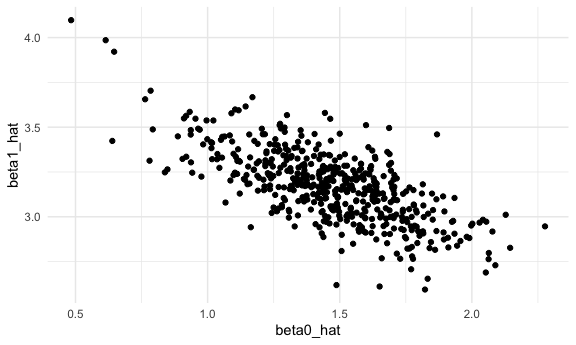
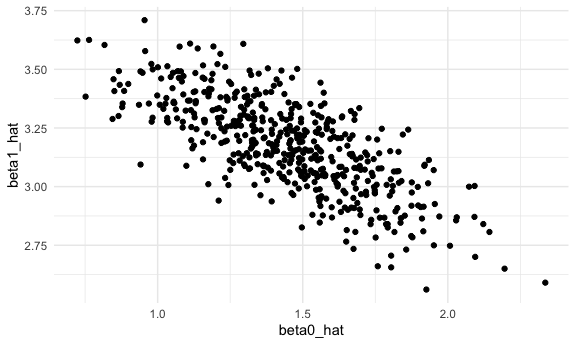
update

diff --git a/simulation.md b/simulation.md
@@ -25,7 +25,7 @@ sim_mean_sd(n_subj=400)
     ## # A tibble: 1 × 2
     ##   mu_hat sigma_hat
     ##    <dbl>     <dbl>
-    ## 1 0.0350     0.999
+    ## 1 0.0144      1.01
 
 ``` r
 output=vector("list", length=100)
@@ -81,12 +81,12 @@ sim_results_df |>
 ```
 
     ## # A tibble: 4 × 3
-    ##   sample_size emp_mean emp_se
-    ##         <dbl>    <dbl>  <dbl>
-    ## 1          30  0.00794 0.189 
-    ## 2          60  0.00313 0.130 
-    ## 3          90  0.00108 0.110 
-    ## 4         120  0.00321 0.0897
+    ##   sample_size  emp_mean emp_se
+    ##         <dbl>     <dbl>  <dbl>
+    ## 1          30  0.000121 0.178 
+    ## 2          60  0.00693  0.125 
+    ## 3          90 -0.00193  0.110 
+    ## 4         120 -0.00229  0.0892
 
 simple linear regression模拟一份简单线性回归
 
@@ -100,18 +100,18 @@ sim_df
 ```
 
     ## # A tibble: 30 × 2
-    ##          x     y
-    ##      <dbl> <dbl>
-    ##  1  0.531  2.09 
-    ##  2  0.239  2.89 
-    ##  3  2.52   9.39 
-    ##  4 -0.0625 0.819
-    ##  5  1.06   6.01 
-    ##  6 -0.187  1.93 
-    ##  7  1.32   6.20 
-    ##  8  1.13   4.82 
-    ##  9  1.23   5.38 
-    ## 10 -0.138  1.81 
+    ##         x       y
+    ##     <dbl>   <dbl>
+    ##  1  0.783  4.94  
+    ##  2  0.586  2.21  
+    ##  3  0.923  6.07  
+    ##  4  1.16   6.56  
+    ##  5  0.921  4.44  
+    ##  6  1.29   6.33  
+    ##  7 -0.288  1.43  
+    ##  8 -0.461  0.0543
+    ##  9 -1.72  -1.28  
+    ## 10 -0.275  0.337 
     ## # ℹ 20 more rows
 
 生成的数据关系
@@ -130,7 +130,7 @@ coef(slr_fit)#coef输出估计的beta0 and beta1
 ```
 
     ## (Intercept)           x 
-    ##    1.820619    3.108336
+    ##    2.034119    3.256006
 
 模拟封装成一个函数sim_regression()
 
@@ -159,7 +159,7 @@ sim_regression(n_subj=30)
     ## # A tibble: 1 × 2
     ##   beta0_hat beta1_hat
     ##       <dbl>     <dbl>
-    ## 1      1.30      3.25
+    ## 1      1.52      3.12
 
 ## 用for-loop重复模拟500次
 
@@ -176,16 +176,16 @@ output |>
     ## # A tibble: 500 × 1
     ##    `(Intercept)`
     ##            <dbl>
-    ##  1          1.16
-    ##  2          1.62
-    ##  3          1.31
-    ##  4          2.08
-    ##  5          1.18
-    ##  6          1.27
-    ##  7          1.74
-    ##  8          1.57
-    ##  9          1.27
-    ## 10          1.68
+    ##  1          1.35
+    ##  2          1.54
+    ##  3          1.56
+    ##  4          1.92
+    ##  5          1.62
+    ##  6          1.67
+    ##  7          1.69
+    ##  8          1.84
+    ##  9          1.20
+    ## 10          1.76
     ## # ℹ 490 more rows
 
 ## 用expand_grid+map
@@ -209,3 +209,46 @@ slr_sim_results_df |>
 ```
 
 <img src="simulation_files/figure-gfm/unnamed-chunk-15-1.png" width="90%" />
+
+``` r
+birthday=sample(1:365, 5, replace = TRUE)
+repeated_bday=length(unique(birthday)) <5
+repeated_bday
+```
+
+    ## [1] FALSE
+
+``` r
+bday_sim=function(n_room){
+  birthday=sample(1:365, n_room, replace = TRUE)
+  repeated_bday=length(unique(birthday)) <n_room
+  repeated_bday
+}
+bday_sim(20)
+```
+
+    ## [1] TRUE
+
+``` r
+bday_sim_results=
+  expand_grid(
+    bday=5:50,
+    iter=1:2500
+  ) |>
+  mutate(
+    result=map_lgl(bday, bday_sim)
+  ) |>
+  group_by(bday) |>
+  summarise(
+    prob_repeat=mean(result)
+  )
+```
+
+``` r
+bday_sim_results |>
+  ggplot(aes(x=bday, y=prob_repeat))+
+  geom_point() +
+  geom_line()
+```
+
+<img src="simulation_files/figure-gfm/unnamed-chunk-19-1.png" width="90%" />
